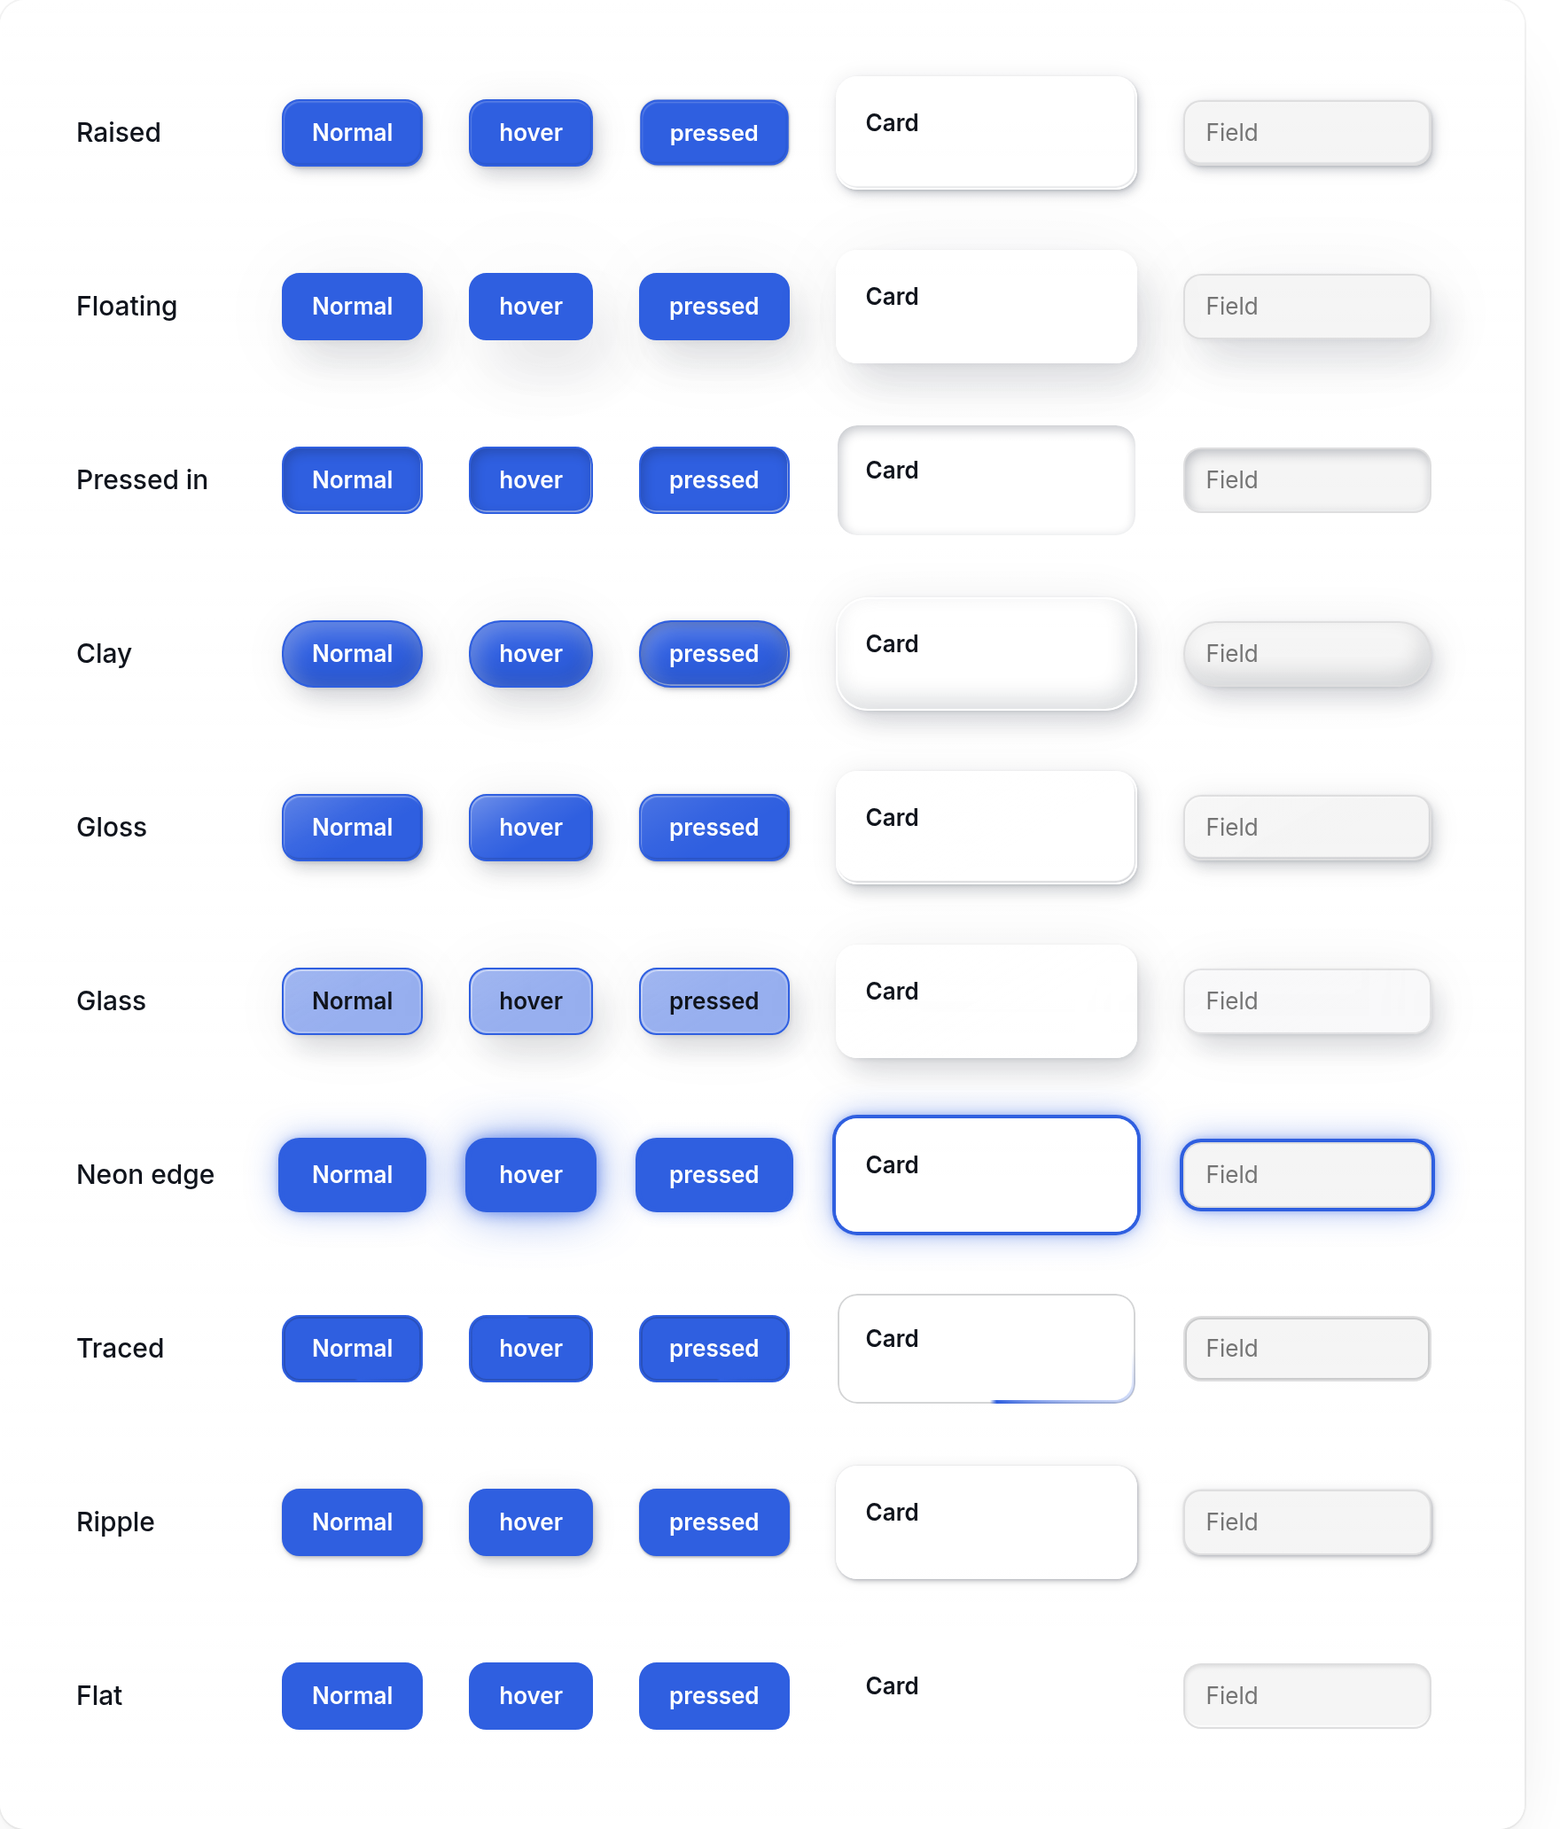
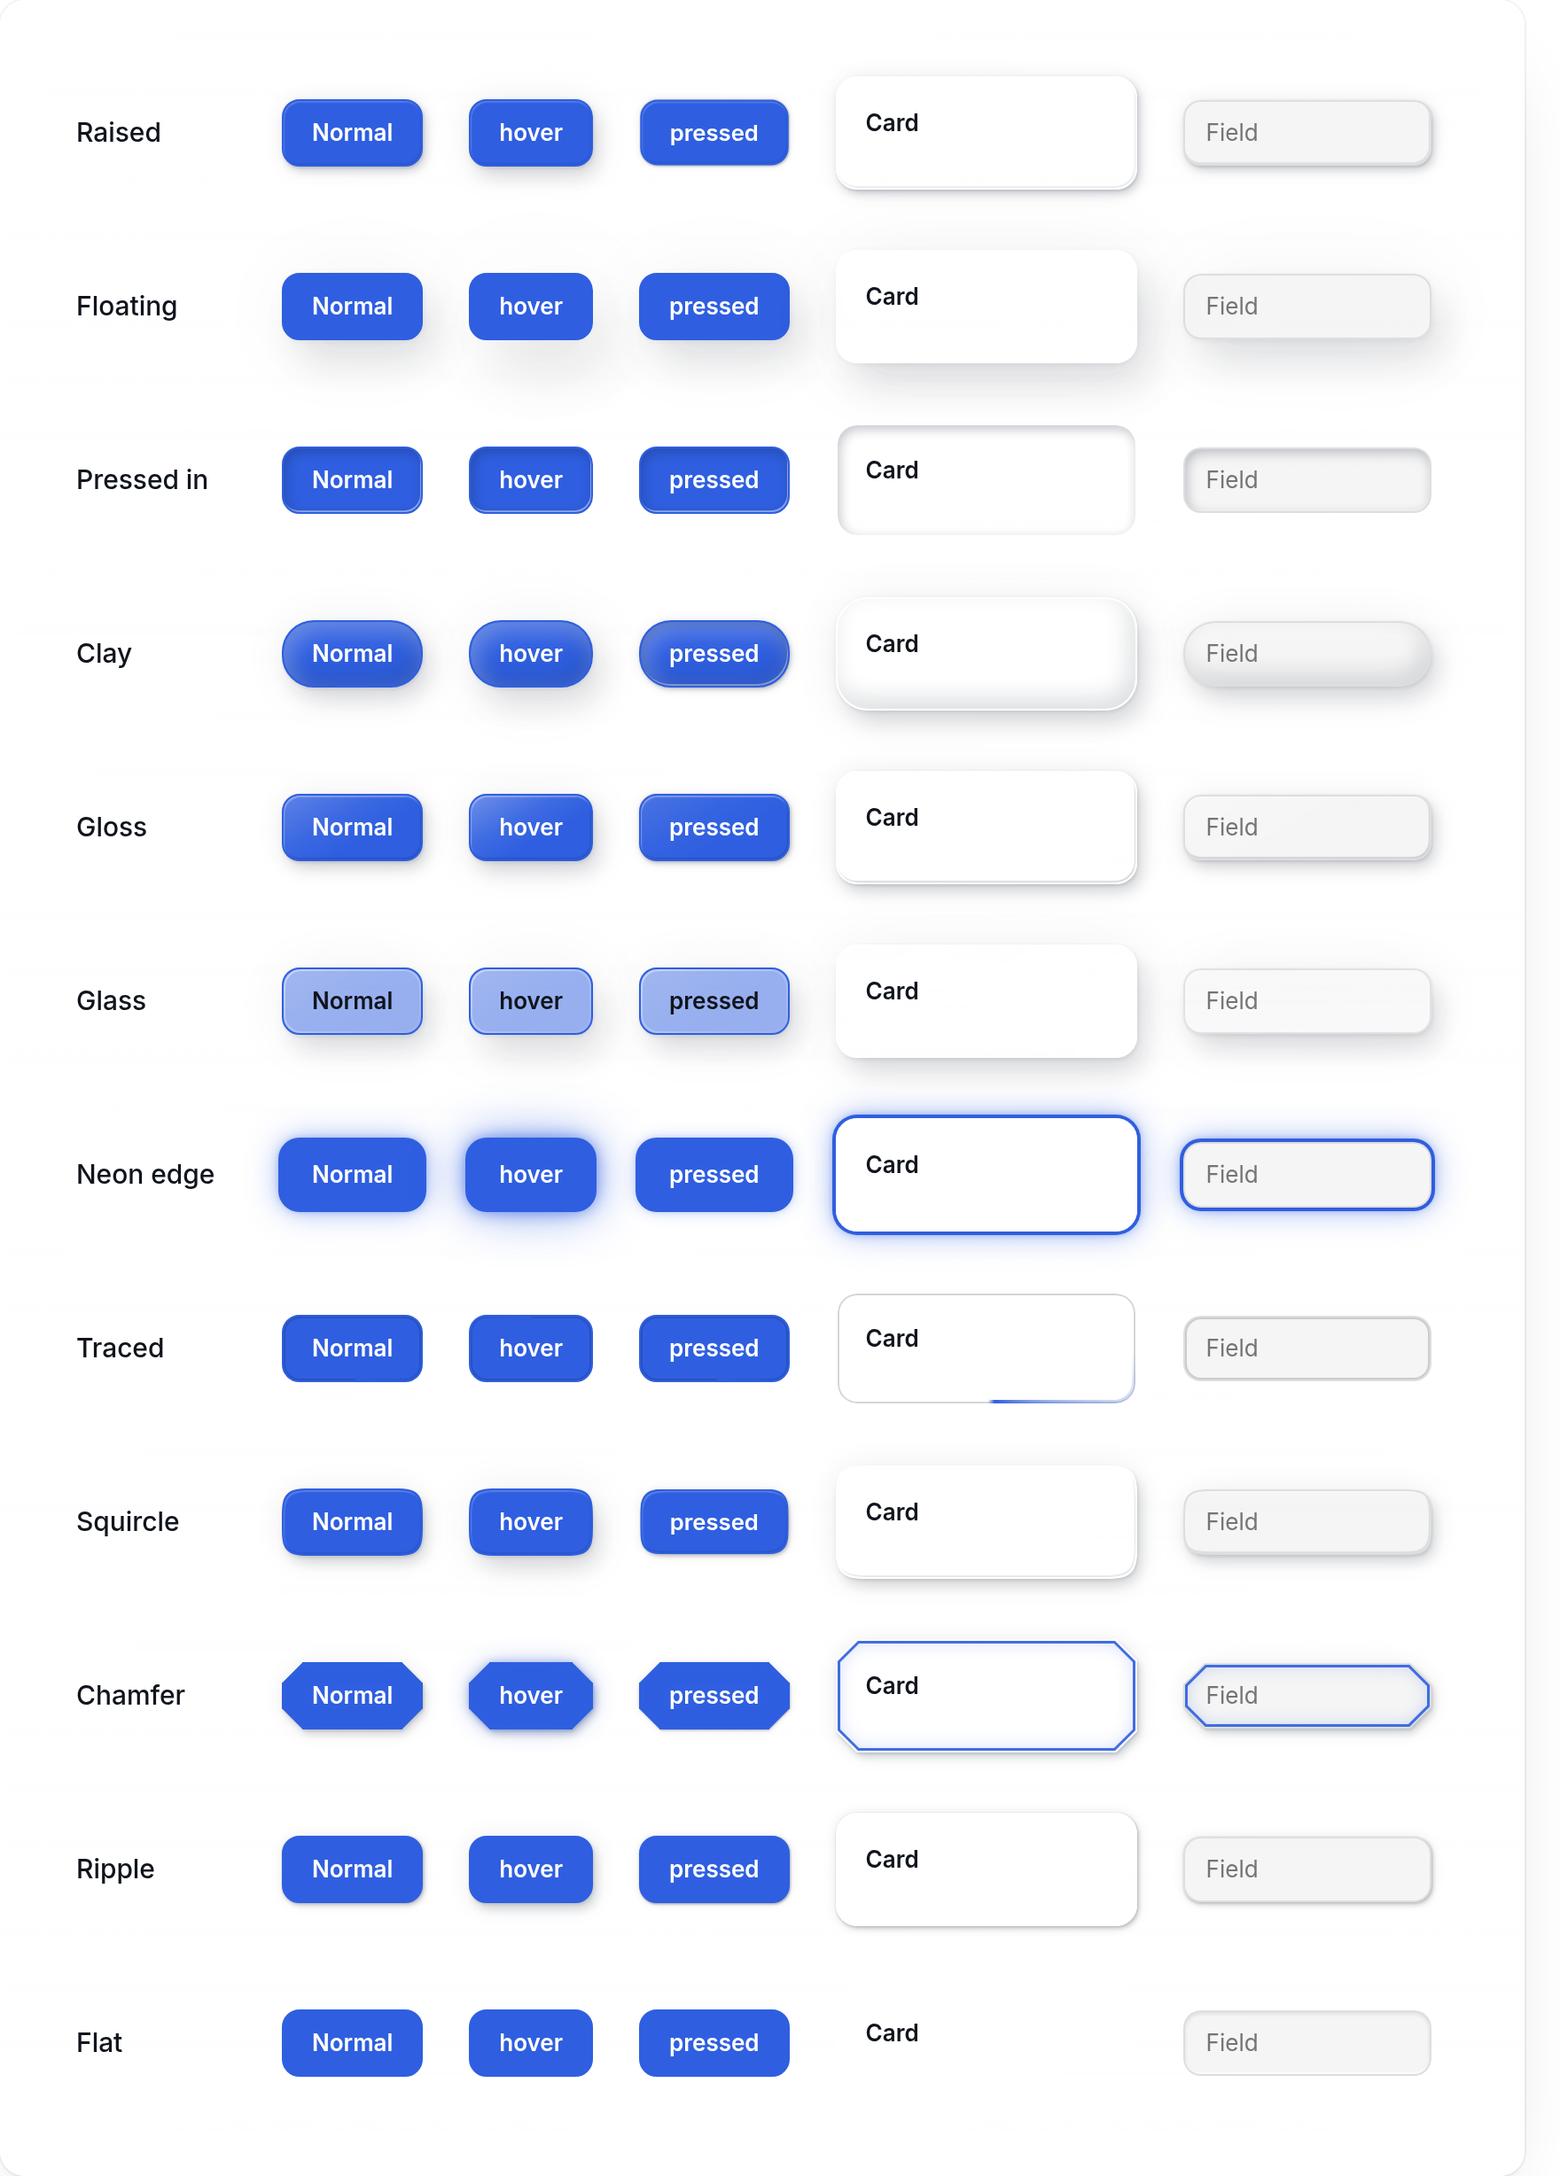
Appearance, part 5: corner shapes and type lit by the scene light
- cornerShape: round, squircle, bevel (chamfer), notch, scoop, square (CSS
  corner-shape; a browser without it draws round). Chromium 152 in Electron
  renders all of them.
- Type: embossed or engraved letters lit from the scene light, and a text
  glow; transitions animate text-shadow too.
- Two styles that show them: Squircle and Chamfer (cut corners, a lit
  inner edge, a glow on hover, a pulse on click). Twelve built-in styles.
- Assistant set_look documents the new fields. Materials sheets refreshed.

diff --git a/src/model/look.ts b/src/model/look.ts
@@ -30,6 +30,10 @@ export const STROKE_STYLES = ['solid', 'dashed', 'dotted'] as const
 export const BEVEL_STYLES = ['raised', 'sunken', 'pillow'] as const
 export const EASINGS = ['smooth', 'snappy', 'spring', 'bouncy', 'linear'] as const
 export const CLICK_EFFECTS = ['ripple', 'sweep', 'pulse', 'sink'] as const
+/** The shape of a corner (CSS corner-shape; a browser without it draws round). */
+export const CORNER_SHAPES = ['round', 'squircle', 'bevel', 'notch', 'scoop', 'square'] as const
+/** Type lit by the scene light: raised off the surface, or cut into it. */
+export const TEXT_RELIEFS = ['none', 'emboss', 'engrave'] as const
 
 export interface LookFill {
   kind: (typeof FILL_KINDS)[number]
@@ -98,6 +102,12 @@ export interface Look {
   radius?: number
   /** Per corner, px: top-left, top-right, bottom-right, bottom-left. Wins over `radius`. */
   corners?: [number, number, number, number]
+  /** How a corner is shaped: round, squircle (smooth), bevel (chamfer), notch, scoop, square. */
+  cornerShape?: (typeof CORNER_SHAPES)[number]
+  /** Text lit by the scene light. */
+  textRelief?: (typeof TEXT_RELIEFS)[number]
+  /** A glow around the letters. */
+  textGlow?: { color: string; size: number }
   trace?: LookTrace
   opacity?: number
   scale?: number
@@ -222,7 +232,7 @@ export function cleanLook(raw: unknown, where = 'look'): { look: Look; dropped: 
   const o = obj(raw)
   if (!o) return { look: {}, dropped: raw === undefined ? [] : [`${where} (not an object)`] }
   const look: Look = {}
-  const known = new Set(['translucency', 'z', 'fills', 'strokes', 'glows', 'bevel', 'inset', 'sheen', 'noise', 'blur', 'backdrop', 'radius', 'corners', 'trace', 'opacity', 'scale', 'lift', 'brightness', 'ink', 'edge'])
+  const known = new Set(['cornerShape', 'textRelief', 'textGlow', 'translucency', 'z', 'fills', 'strokes', 'glows', 'bevel', 'inset', 'sheen', 'noise', 'blur', 'backdrop', 'radius', 'corners', 'trace', 'opacity', 'scale', 'lift', 'brightness', 'ink', 'edge'])
   for (const k of Object.keys(o)) if (!known.has(k)) dropped.push(`${where}.${k} (unknown)`)
   const scalar: Array<[keyof Look, RangeKey]> = [
     ['translucency', 'unit'], ['z', 'z'], ['inset', 'inset'], ['sheen', 'sheen'], ['noise', 'noise'], ['blur', 'blur'], ['backdrop', 'backdrop'],
@@ -260,6 +270,20 @@ export function cleanLook(raw: unknown, where = 'look'): { look: Look; dropped: 
   if (glows) look.glows = glows
   const b = obj(o.bevel)
   if (b) look.bevel = { size: num(b.size, 'bevelSize') ?? 2, strength: num(b.strength, 'bevelStrength') ?? 0.5, style: pick(b.style, BEVEL_STYLES, 'raised') }
+  if (o.cornerShape !== undefined) {
+    if ((CORNER_SHAPES as readonly string[]).includes(o.cornerShape as string)) look.cornerShape = o.cornerShape as Look['cornerShape']
+    else dropped.push(`${where}.cornerShape (not a corner shape)`)
+  }
+  if (o.textRelief !== undefined) {
+    if ((TEXT_RELIEFS as readonly string[]).includes(o.textRelief as string)) look.textRelief = o.textRelief as Look['textRelief']
+    else dropped.push(`${where}.textRelief (not a relief)`)
+  }
+  const tg = obj(o.textGlow)
+  if (tg) {
+    const c = color(tg.color)
+    if (c) look.textGlow = { color: c, size: num(tg.size, 'glowSize') ?? 8 }
+    else dropped.push(`${where}.textGlow (needs a valid colour)`)
+  }
   const tr = obj(o.trace)
   if (tr) {
     const c = color(tr.color)
@@ -410,6 +434,18 @@ export const BUILTIN_STYLES: readonly LookStyle[] = [
     label: 'Traced',
     hint: 'A light that runs around the edge',
     set: { base: { strokes: [{ color: 'var(--loom-border-strong)', width: 1, position: 'inside', style: 'solid', opacity: 1 }], trace: { color: ACCENT, width: 2, speed: 3, arc: 0.22 } }, states: { hover: { trace: { color: ACCENT, width: 2, speed: 1.4, arc: 0.3 } } } },
+  },
+  {
+    id: 'squircle',
+    label: 'Squircle',
+    hint: 'Smooth, continuous corners, softly raised',
+    set: { base: { radius: 22, cornerShape: 'squircle', z: 6, bevel: { size: 1, strength: 0.4, style: 'raised' } }, states: { hover: { z: 10 }, pressed: { z: 2, scale: 0.985 } }, motion: { duration: 200, easing: 'spring' } },
+  },
+  {
+    id: 'chamfer',
+    label: 'Chamfer',
+    hint: 'Cut corners and a lit inner edge',
+    set: { base: { radius: 12, cornerShape: 'bevel', z: 4, strokes: [{ color: ACCENT, width: 1.5, position: 'inside', style: 'solid', opacity: 0.9 }], glows: [{ color: ACCENT, size: 10, strength: 0.25, inner: true }] }, states: { hover: { glows: [{ color: ACCENT, size: 14, strength: 0.45, inner: true }, { color: ACCENT, size: 14, strength: 0.35, inner: false }] }, pressed: { z: 1 } }, click: ['pulse'], motion: { duration: 160, easing: 'snappy' } },
   },
   {
     id: 'ripple',

diff --git a/src/ai/tools.ts b/src/ai/tools.ts
@@ -161,7 +161,7 @@ export const TOOLS: ToolDef[] = [
   {
     name: 'set_look',
     description:
-      'Make a component, or one of its parts, PHYSICAL (the Appearance panel). Everything is lit by one scene light, so shadows, bevels and sheen are never drawn by hand: give it height and the light does the rest. Pass `style` (raised | floating | pressed-in | clay | gloss | glass | neon | traced | ripple | flat) for a complete tasteful look with its states and motion, and/or `look` to set layers yourself: {base, states?, motion?, click?, clickColor?}. A look: z 0-64 (height above the page), fills [{kind solid|linear|radial|conic, colors[1-4], angle, opacity, blend}], strokes [{color, color2?, width, position inside|center|outside, style solid|dashed|dotted, opacity}], glows [{color, size, strength, inner}], bevel {size, strength, style raised|sunken|pillow}, inset 0-24 (pressed into the surface), sheen 0-1, noise 0-1, blur, backdrop (frosted glass), translucency 0-1 (own colour made see-through), radius or corners [tl,tr,br,bl], trace {color, width, speed s/lap, arc 0-1} (a light running around the edge), opacity, scale, lift, brightness, ink (text colour), edge (border colour). states: {hover|focus|pressed|selected|disabled: a look patch}. motion: {duration ms, easing smooth|snappy|spring|bouncy|linear}. click: [ripple|sweep|pulse|sink]. Colours may be theme tokens: var(--loom-accent), var(--loom-success), var(--loom-danger), var(--loom-text), var(--loom-border-strong). `target` is "" for the whole component or a part name from describe_component. A style and a look together: the look is merged over the style. `look: null` removes it. Use with restraint: one or two materials per screen read as design; ten read as noise.',
+      'Make a component, or one of its parts, PHYSICAL (the Appearance panel). Everything is lit by one scene light, so shadows, bevels and sheen are never drawn by hand: give it height and the light does the rest. Pass `style` (raised | floating | pressed-in | clay | gloss | glass | neon | traced | ripple | flat) for a complete tasteful look with its states and motion, and/or `look` to set layers yourself: {base, states?, motion?, click?, clickColor?}. A look: z 0-64 (height above the page), fills [{kind solid|linear|radial|conic, colors[1-4], angle, opacity, blend}], strokes [{color, color2?, width, position inside|center|outside, style solid|dashed|dotted, opacity}], glows [{color, size, strength, inner}], bevel {size, strength, style raised|sunken|pillow}, inset 0-24 (pressed into the surface), sheen 0-1, noise 0-1, blur, backdrop (frosted glass), translucency 0-1 (own colour made see-through), radius or corners [tl,tr,br,bl], cornerShape round|squircle|bevel|notch|scoop|square, textRelief none|emboss|engrave, textGlow {color, size}, trace {color, width, speed s/lap, arc 0-1} (a light running around the edge), opacity, scale, lift, brightness, ink (text colour), edge (border colour). states: {hover|focus|pressed|selected|disabled: a look patch}. motion: {duration ms, easing smooth|snappy|spring|bouncy|linear}. click: [ripple|sweep|pulse|sink]. Colours may be theme tokens: var(--loom-accent), var(--loom-success), var(--loom-danger), var(--loom-text), var(--loom-border-strong). `target` is "" for the whole component or a part name from describe_component. A style and a look together: the look is merged over the style. `look: null` removes it. Use with restraint: one or two materials per screen read as design; ten read as noise.',
     inputSchema: obj({ id: str('Node id.'), target: str('"" (the whole component) or a part name.'), style: str('A built-in style id.'), look: { type: ['object', 'null'] } }, ['id']),
   },
   {

diff --git a/src/appearance-inspector.tsx b/src/appearance-inspector.tsx
@@ -27,6 +27,8 @@ import {
   BLENDS,
   BUILTIN_STYLES,
   CLICK_EFFECTS,
+  CORNER_SHAPES,
+  TEXT_RELIEFS,
   DEFAULT_LIGHT,
   EASINGS,
   FILL_KINDS,
@@ -575,8 +577,11 @@ export function AppearancePanel({ s, node, editing, onEditing }: { s: EditorStor
         })}
       </Section>
 
-      <Section title="Shape" open={current.radius !== undefined || current.corners !== undefined}>
+      <Section title="Shape" open={current.radius !== undefined || current.corners !== undefined || current.cornerShape !== undefined}>
         {num('radius', 'Corners', [0, 64], 1, 'px')}
+        <Row label="Corner shape" set={current.cornerShape !== undefined} onClear={() => clear('cornerShape')} title="Squircle is a smooth, continuous curve; bevel cuts the corner; notch and scoop cut it inward">
+          <Choice label="Corner shape" value={current.cornerShape ?? effective.cornerShape} options={CORNER_SHAPES} onChange={(v) => setField('cornerShape', v, 'Corner shape')} />
+        </Row>
         <Row label="Each corner" set={current.corners !== undefined} onClear={() => clear('corners')}>
           <span className="ap-corners">
             {(['↖', '↗', '↘', '↙'] as const).map((g, k) => {
@@ -590,6 +595,20 @@ export function AppearancePanel({ s, node, editing, onEditing }: { s: EditorStor
             })}
           </span>
         </Row>
+      </Section>
+
+      <Section title="Type" open={current.textRelief !== undefined || current.textGlow !== undefined}>
+        <Row label="Relief" set={current.textRelief !== undefined} onClear={() => clear('textRelief')} title="Letters raised off the surface or cut into it, lit by the scene light">
+          <Choice label="Text relief" value={current.textRelief ?? effective.textRelief} options={TEXT_RELIEFS} onChange={(v) => setField('textRelief', v, 'Text relief')} />
+        </Row>
+        <Row label="Text glow" set={current.textGlow !== undefined} onClear={() => clear('textGlow')}>
+          <Color label="Text glow colour" value={(current.textGlow ?? effective.textGlow)?.color} onChange={(v) => setField('textGlow', { color: v, size: (current.textGlow ?? effective.textGlow)?.size ?? 8 }, 'Text glow')} />
+        </Row>
+        {(current.textGlow ?? effective.textGlow) && (
+          <Row label="Glow size" set={false}>
+            <Slider label="Text glow size" value={(current.textGlow ?? effective.textGlow)!.size} range={RANGES.glowSize} step={1} unit="px" onChange={(v) => setField('textGlow', { ...(current.textGlow ?? effective.textGlow)!, size: v }, 'Text glow size')} />
+          </Row>
+        )}
       </Section>
 
       <Section title="Texture & glass" open={['noise', 'blur', 'backdrop', 'translucency'].some((k) => current[k as keyof Look] !== undefined)}>

diff --git a/src/render/look.ts b/src/render/look.ts
@@ -31,7 +31,9 @@ import { resolveTheme, type Theme } from './theme'
 import { OUTPUT_HOOK, cssString } from './responsive'
 import { partSelector } from './parts'
 import { FORCE_ATTR } from './states'
-import { bevelShadows, elevationShadows, insetShadows, lightOf, liftTint, shadeFor, sheenLayer, type Shade } from './light'
+import { bevelShadows, elevationShadows, insetShadows, lightOf, liftTint, shadeFor, shadowDir, sheenLayer, type Shade } from './light'
+
+const r1 = (n: number) => Math.round(n * 10) / 10
 
 /** True when a node carries any look. */
 export function hasLook(node: Node): boolean {
@@ -186,6 +188,18 @@ export function compileLook(l: Look, light: SceneLight, shade: Shade, isState = 
   // --- shape, tone and transform -------------------------------------------
   const r = radiusCss(l)
   if (r) d.push(`border-radius:${r}`)
+  if (l.cornerShape) d.push(`corner-shape:${l.cornerShape}`)
+  // --- type, lit by the same light ------------------------------------------
+  if (l.textRelief !== undefined || l.textGlow !== undefined) {
+    const ts: string[] = []
+    const sd = shadowDir(light)
+    const hi = `rgb(${shade.light} / ${shade.dark ? 0.18 : 0.7})`
+    const lo = `rgb(${shade.shadow} / ${shade.dark ? 0.7 : 0.35})`
+    if (l.textRelief === 'emboss') ts.push(`${r1(-sd.x)}px ${r1(-sd.y)}px 0 ${hi}`, `${r1(sd.x)}px ${r1(sd.y)}px 1px ${lo}`)
+    if (l.textRelief === 'engrave') ts.push(`${r1(sd.x)}px ${r1(sd.y)}px 0 ${hi}`, `${r1(-sd.x)}px ${r1(-sd.y)}px 1px ${lo}`)
+    if (l.textGlow) ts.push(`0 0 ${l.textGlow.size}px ${l.textGlow.color}`, `0 0 ${Math.max(1, Math.round(l.textGlow.size / 3))}px ${l.textGlow.color}`)
+    d.push(`text-shadow:${ts.length ? ts.join(',') : 'none'}`)
+  }
   if (l.ink) d.push(`color:${l.ink}`)
   if (l.edge) d.push(`border-color:${l.edge}`)
   if (l.opacity !== undefined) d.push(`opacity:${l.opacity}`)
@@ -237,7 +251,7 @@ function stateOf(sel: string, state: LookState): string[] {
   }
 }
 
-const TRANSITIONED = ['box-shadow', 'background-color', 'color', 'border-color', 'outline-color', 'opacity', 'scale', 'translate', 'filter', 'backdrop-filter', 'border-radius']
+const TRANSITIONED = ['text-shadow', 'box-shadow', 'background-color', 'color', 'border-color', 'outline-color', 'opacity', 'scale', 'translate', 'filter', 'backdrop-filter', 'border-radius']
 
 /* ------------------------------------------------------------- the sheet -- */
 

diff --git a/electron/selftest.ts b/electron/selftest.ts
@@ -4658,6 +4658,8 @@ export async function runSelfTest(): Promise<string> {
 
     // Every built-in style compiles to something real.
     check('every built-in style compiles and survives the sanitiser (Flat is "no look")', BUILTIN_STYLES.every((x) => (x.id === 'flat' ? cleanLookSet(x.set).set === null : cleanLookSet(x.set).set !== null && compileLook(x.set.base, DEFAULT_LIGHT, shade).decls.length > 0)))
+    const typed = compileLook({ cornerShape: 'squircle', textRelief: 'emboss', textGlow: { color: '#ff0000', size: 6 } }, DEFAULT_LIGHT, shade).decls.join(';')
+    check('corner shape and lit type compile (type lit from the scene light)', typed.includes('corner-shape:squircle') && /text-shadow:[^;]*rgb\(255 255 255/.test(typed) && typed.includes('0 0 6px #ff0000'), typed)
     check('a base look with nothing to cast keeps the component\'s own shadow; a state can still clear it', !compileLook({ z: 0 }, DEFAULT_LIGHT, shade).decls.some((d) => d.startsWith('box-shadow')) && compileLook({ z: 0 }, DEFAULT_LIGHT, shade, true).decls.some((d) => d.startsWith('box-shadow:none')))
 
     // The editor's Play and the runtime draw the same layers.
